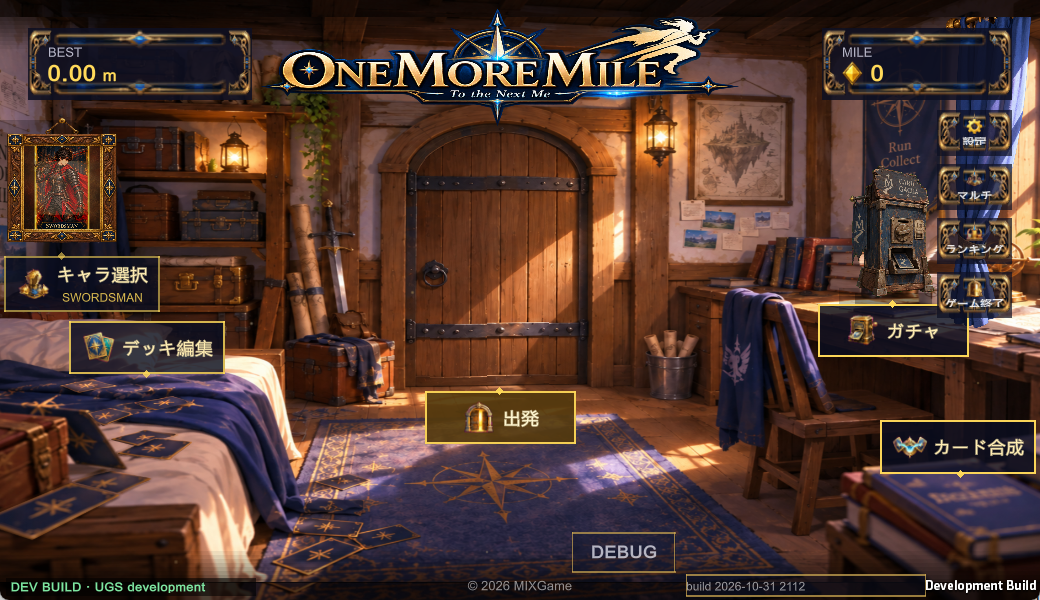
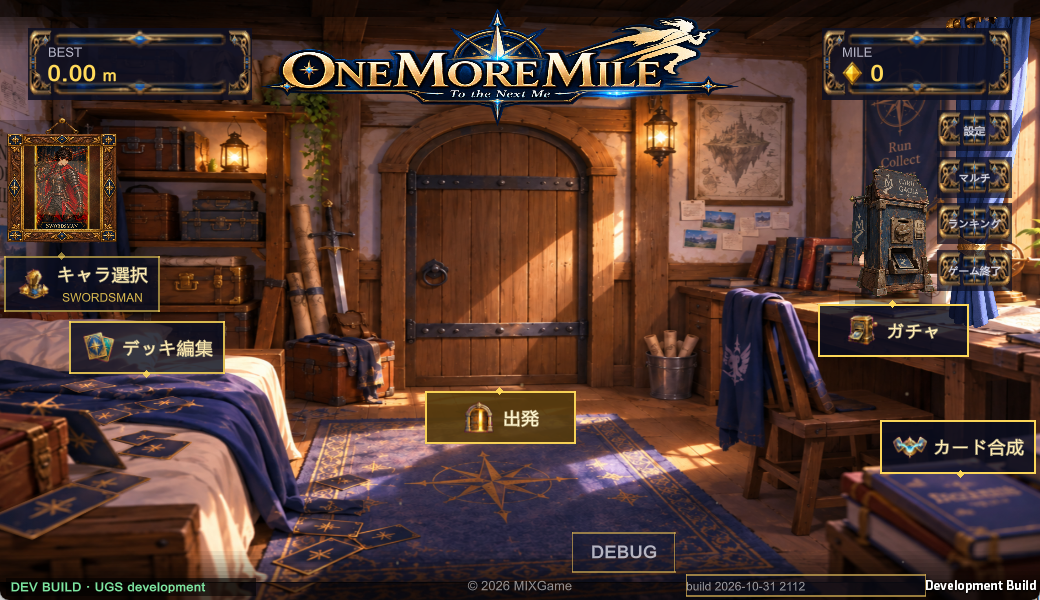
終了・画面設定/タイトル・デッキ編集の報告書: エミュレーター(APK 406/407)の確認と画像を追記

Changed region(s): [[0.8923, 0.18, 0.9846, 0.54], [0.4923, 0.51, 0.5231, 0.54], [0.4308, 0.54, 0.4615, 0.57]]

diff --git a/Docs/TitleDeckDismantle_2026-10-31/report.md b/Docs/TitleDeckDismantle_2026-10-31/report.md
@@ -98,14 +98,19 @@
 | 本物のキー/マウスでタイトル開始: Enter / クリック / Space / A / ↓ / Tab(初回起動 = 空の保存・2回目以降) | Windows 開発版 | 全部開始できる。入力から 0.36秒前後でホーム |
 | 製品版(リリース設定)のビルド | Windows | 成功(製品版だけのコンパイルエラーなし)。フォルダ 1.5GB |
 | 回帰: `-qaDeckDup` / `-qaDeckPreset` / `-qaPad` / `-qaTap` / `-qaKeyNav`(横・縦) | Windows | すべて合格 |
+| Android エミュレーター(APK 406): タイトルをタップで開始 | エミュレーター 2400×1080 | 合格(タップから 0.46秒でホーム) |
+| Android エミュレーター: **本物のタッチ**(adb の input draganddrop / 長押し / タップ)で 所持 → 空き枠 / デッキ → 一覧 / デッキ内の入れ替え / 長押しの大きな詳細 → 戻るで閉じる / タップで追加 | エミュレーター | 全項目合格 |
+| Android エミュレーター: `-qaDeckV2`(横)/ 縦(APK 407 で -qaOrient portrait) | エミュレーター | 合格・例外 0 |
 
 試験で見つけて直した不具合:
 - **タイトルを Enter/Space で始めると、その決定が後ろのホームにも届き「設定」が開いていた**(キーボード/パッドのメニュー操作がタイトルの間も動いていた)→ タイトルの間はメニューの選択・決定を止めた。試験にも「始めた入力でホームの画面が開かない」を追加
 - 題名の文字の並びの誤り(単語の間が詰まる)、縦画面ではみ出す → 修正
 - 右上の設定ボタン(⚙)がデッキの枚数・切り替えの帯に重なる → その下から並べる
 
+- APK: **versionCode 406**(2026-10-31 2112)、444,638,565 バイト(APK 405 から +2.5MB 程度 = タイトルの背景の絵)。Windows 製品版のフォルダは約 1.5GB
+
 ## 6. 未確認・残件
-- **実機(Android/iPhone)は未確認**。長押し・ドラッグのしきい値は Android 向けの値(dpi から)にしてあるが、指での感触は実機で見てほしい
+- **実機(Android/iPhone)は未確認**(Android はエミュレーターまで)。長押し・ドラッグのしきい値は Android 向けの値(dpi から)にしてあるが、指での感触は実機で見てほしい
 - タイトルの背景は1枚の静止画(動き・音の演出はなし)
 - ゲームパッドは自動試験のみ(実機のパッドでは未確認。パッドにドラッグは無い仕様)
 - 一覧の並べ替え(名前順・Lv順など)は作りを用意しただけで、今回は増やしていない

diff --git a/Docs/ExitDisplay_2026-10-31/report.md b/Docs/ExitDisplay_2026-10-31/report.md
@@ -83,9 +83,19 @@ ID 10349〜10373(25件)。日本語の原文・ID・使用場所は `Docs/LocRev
 | 回帰: `-qaKeyNav` / `-qaPad` / `-qaTitle` / `-qaDeckV2` / `-qaHomeLayout`(1280×720・486×1080・1024×768) | すべて合格 |
 | 製品版(リリース設定)のビルド | 成功(製品版だけのコンパイルエラーなし)。フォルダ 1,570,039,120 バイト(約1.46GiB)。製品版でもタイトルの開始は Enter・クリック・Space とも約0.36秒 |
 
+### Android エミュレーター(APK 407、試験用の保存ファイル)
+| 確認 | 結果 |
+|---|---|
+| 本物の操作: タイトルをタップ → ホームで端末の「戻る」→ 確認(「端末のホームへ戻りますか？」、キャンセルが選ばれている)→ ← → Enter | 中断の保存の後 `moveTaskToBack` → **前面がランチャー(端末のホーム)になり、アプリのプロセスは残る**。もう一度開くとゲームに戻る |
+| タイトルで端末の「戻る」 | 確認が開く(タイトルは始まらない)→ もう一度「戻る」でキャンセル → タップで開始(縦・横) |
+| `-qaExit`(Android の動作)横 / 縦 | 合格・例外 0 |
+| デッキ編集(縦、-qaOrient portrait)/ 本物のタッチのドラッグ・長押し | 合格 |
+
+- APK: **versionCode 407**(2026-10-31 2245)、444,780,331 バイト(APK 406 から +141,766 バイト = 出口のアイコンと文言)。Windows 製品版 1,570,039,120 バイト
+
 ## 6. 未確認・残件
 - **iPhone / iPad: 実機・シミュレーターとも未確認**(コードの確認と、Windows で iOS の動作に切り替えた試験だけ)
-- **Android 実機: 未確認**。エミュレーターの確認は下に追記
+- **Android 実機: 未確認**(エミュレーターまで。上の表)
 - 実機のゲームパッドは未確認(自動試験のみ)
 - 排他の全画面: 今の Windows 版は DirectX 12 のため選択肢に出ない(DirectX 11 等の時だけ出る)。出る状態の実機確認はしていない
 - 複数モニターの抜き差しは、実際の構成の変化では未確認(「ウィンドウがモニターより大きい時に縮める」処理と、起動時の補正は試験済み)
